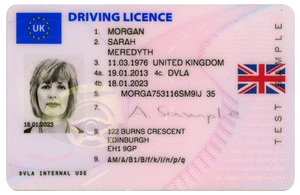
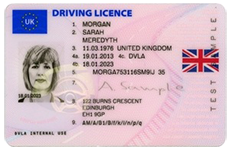
rp content prep for testing

diff --git a/app/views/repeat-prescriptions/rp-question-3.html b/app/views/repeat-prescriptions/rp-question-3.html
@@ -57,30 +57,6 @@ Repeat prescriptions
 
           <div>
             <ol class="nhsuk-list inline-list" role="list">
-              
-              <li class="nhsuk-c-panel results__item" data-index="1" role="listitem">
-                <hr>
-                <div>
-                  <h3 class="results__name"><span role="text"><span class="highlight">Shadwell</span> Medical Centre</span></h3>
-                  <p class="results__address" role="text">137 <span class="highlight">Shadwell</span> <span class="highlight">Lane</span>, Leeds, West Yorkshire, LS17 8AE</p>
-                  <p><a class="results__gp__selection" href="/repeat-prescriptions/rp-question-4?surgery=Shadwell Medical Centre">
-                    <span class="nhsuk-u-visually-hidden">Shadwell Medical Centre</span>
-                    <span aria-hidden="true">This</span> is my GP</a>
-                  </p>
-                </div>
-              </li>
-            
-              <li class="nhsuk-c-panel results__item" data-index="2" role="listitem">
-                <hr>
-                <div>
-                  <h3 class="results__name"><span role="text">Sandy <span class="highlight">Lane</span> Surgery</span></h3>
-                  <p class="results__address" role="text">Sandy <span class="highlight">Lane</span> Health Centre, Sandy <span class="highlight">Lane</span>, Rugeley, Staffordshire, WS15 2LB</p>
-                  <p><a class="results__gp__selection" href="/repeat-prescriptions/denied-despensing-gp">
-                    <span class="nhsuk-u-visually-hidden">Sandy Lane Surgery</span>
-                    <span aria-hidden="true">This</span> is my GP</a>
-                  </p>
-                </div>
-              </li>
             
               <li class="nhsuk-c-panel results__item" data-index="3" role="listitem">
                 <hr>
@@ -101,6 +77,18 @@ Repeat prescriptions
                   <p class="results__address" role="text">Matson <span class="highlight">Lane</span> Surgery, Taylor House 4 Matson <span class="highlight">Lane</span>, Matson, Gloucestershire, GL4 6DX</p>
                   <p><a class="results__gp__selection" href="">
                     <span class="nhsuk-u-visually-hidden">Matson Lane Surgery</span>
+                    <span aria-hidden="true">This</span> is my GP</a>
+                  </p>
+                </div>
+              </li>
+
+              <li class="nhsuk-c-panel results__item" data-index="1" role="listitem">
+                <hr>
+                <div>
+                  <h3 class="results__name"><span role="text"><span class="highlight">Shadwell</span> Medical Centre</span></h3>
+                  <p class="results__address" role="text">137 <span class="highlight">Shadwell</span> <span class="highlight">Lane</span>, Leeds, West Yorkshire, LS17 8AE</p>
+                  <p><a class="results__gp__selection" href="/repeat-prescriptions/rp-question-4?surgery=Shadwell Medical Centre">
+                    <span class="nhsuk-u-visually-hidden">Shadwell Medical Centre</span>
                     <span aria-hidden="true">This</span> is my GP</a>
                   </p>
                 </div>
@@ -142,6 +130,18 @@ Repeat prescriptions
                 </div>
               </li>
             
+              <li class="nhsuk-c-panel results__item" data-index="2" role="listitem">
+                <hr>
+                <div>
+                  <h3 class="results__name"><span role="text">Sandy <span class="highlight">Lane</span> Surgery</span></h3>
+                  <p class="results__address" role="text">Sandy <span class="highlight">Lane</span> Health Centre, Sandy <span class="highlight">Lane</span>, Rugeley, Staffordshire, WS15 2LB</p>
+                  <p><a class="results__gp__selection" href="/repeat-prescriptions/denied-despensing-gp">
+                    <span class="nhsuk-u-visually-hidden">Sandy Lane Surgery</span>
+                    <span aria-hidden="true">This</span> is my GP</a>
+                  </p>
+                </div>
+              </li>
+              
               <li class="nhsuk-c-panel results__item" data-index="8" role="listitem">
                 <hr>
                 <div>

diff --git a/app/views/repeat-prescriptions/start.html b/app/views/repeat-prescriptions/start.html
@@ -60,6 +60,11 @@
     <div class="nhsuk-grid-column-two-thirds">
 
       <h1 class="nhsuk-u-margin-bottom-4">Before you start</h1>
+      <p>To order repeat prescriptions online, you will need an NHS login.</p>
+      <p>NHS login makes it easier and quicker for you to securely access digital health and care services.</p>
+
+      <h2>What you will need</h2>
+      <p>In order to register for an NHS login you will need one of the following at hand:</p>
 
     </div>
 
@@ -67,22 +72,27 @@
 
   <div class="nhsuk-grid-row">
 
-    <div class="nhsuk-grid-column-two-thirds">
-      <p>To order repeat prescriptions online, you will need an NHS login.</p>
-      <p>In order to register and create an NHS login you will need one of the following at hand:</p>
+    <div class="nhsuk-grid-column-one-third">
       <ul class="nhsuk-list nhsuk-list--bullet">
         <li>a valid drivers licence</li>
         <li>a valid passport</li>
         <li>an EU identity card</li>
       </ul>
-      <div class="nhsuk-inset-text nhsuk-u-margin-bottom-6">
-        <span class="nhsuk-u-visually-hidden">Information: </span>
-        <p>You will need to take a photo of yourself holding your license and will then need to upload the photo.</p>
-      </div>
     </div>
 
-    <div class="nhsuk-grid-column-one-third nhsuk-u-margin-bottom-4">
-      <img src="/images/s300_Eng_Full_Front_Flag.png" alt="Driving Licence" width="250" height="163">
+    <div class="nhsuk-grid-column-one-third">
+      <img src="/images/s300_Eng_Full_Front_Flag.png" alt="Driving Licence" width="230" height="150">
+    </div>
+
+  </div>
+
+  <div class="nhsuk-grid-row">
+
+    <div class="nhsuk-grid-column-two-thirds">
+      <div class="nhsuk-inset-text nhsuk-u-margin-top-4 nhsuk-u-margin-bottom-6">
+        <span class="nhsuk-u-visually-hidden">Information: </span>
+        <p>You will need to take photos of the chosen ID and of yourself. You will then need to upload them.</p>
+      </div>
     </div>
 
   </div>
@@ -92,9 +102,9 @@
 
     <div class="nhsuk-grid-column-two-thirds">
 
-      <h2>Eligibility checker</h2>
-      <p>By answering a few questions now we will be able to let you know if you can order a repeat prescription online, before going through the process of registering for an NHS login.</p>
-      <p>If you do not want to check your eligibility, you can go ahead and <a href="https://account.demo.signin.nhs.uk/#/account/register">set up an NHS login</a>.</p>
+      <h2>Can I use this service?</h2>
+      <p>Not everyone is eligible to order repeat prescriptions online. So we will need to ask you a few questions to check if you are eligible, before taking you through the process of registering for an NHS login.</p>
+      <p>If you do not want to check your eligibility, you can go ahead and <a href="https://account.demo.signin.nhs.uk/#/account/register">register for an NHS login</a>.</p>
     
 
       <form action="/repeat-prescriptions/rp-question-1" method="post" style="float: left; padding-right: 20px;">
@@ -106,7 +116,7 @@
 
       <form action="https://account.demo.signin.nhs.uk/#/account/register" method="get">
         <button class="nhsuk-button nhsuk-button--secondary" type="submit">
-          Setup an NHS login
+          Register for an NHS login
         </button>
       </form>
 

diff --git a/app/views/repeat-prescriptions/rp-landing.html b/app/views/repeat-prescriptions/rp-landing.html
@@ -62,16 +62,17 @@
       <h1>Repeat prescriptions</h1>
 
       <p>If you're regularly prescribed the same medicine, your GP may offer a prescription that can be repeated several times.</p>
-      <p>Repeat prescriptions is one of many NHS services available to you on the NHS App.</p>
-      <h3><b>The NHS app can enable you to:</b></h3>
+      <!--p>Repeat prescriptions is one of many NHS services available to you on the NHS App.</p-->
+      <h3><b>This service can enable you to:</b></h3>
       <ul class="nhsuk-list nhsuk-list--bullet">
         <li>order a repeat prescription</li>
         <li>check the status of a prescription you have ordered</li>
+        <li>choose which high street pharmacy you would like to collect from</li>
       </ul>
 
       <div class="nhsuk-inset-text nhsuk-u-margin-bottom-3">
         <span class="nhsuk-u-visually-hidden">Information: </span>
-        <p>You will need an NHS login to use the NHS app.</p>
+        <p>You will need an NHS login to use this service.</p>
       </div>
 
     </div>
@@ -99,7 +100,7 @@
     <div class="nhsuk-grid-column-one-half">
       <div class="nhsuk-panel">
         <h3>I have an NHS login</h3>
-        <p>You can go straight to the NHS App, log in with your credentials and check your repeat prescription details.</p>
+        <p>You can log in now with your email and password to check your repeat prescription details.</p>
         <div class="nhsuk-action-link">
           <a class="nhsuk-action-link__link" href="https://nhs-cid.herokuapp.com/create-account/v19/login-nhs">
             <svg class="nhsuk-icon nhsuk-icon__arrow-right-circle" xmlns="http://www.w3.org/2000/svg" viewBox="0 0 24 24" aria-hidden="true">

diff --git a/app/views/repeat-prescriptions/denied-no-england.html b/app/views/repeat-prescriptions/denied-no-england.html
@@ -38,18 +38,25 @@ Repeat prescriptions
 
     <div class="nhsuk-grid-column-two-thirds">
 
-      <h1>You cannot use this service to order a repeat prescription online</h1>
+      <h1>You are unable to use this service</h1>
 
-      <form action="/repeat-prescriptions/" method="post">
+      <form action="https://www.nhs.uk" method="post">
 
         <div class="nhsuk-form-group">
 
-          <p>This service is only available to patients who are registered at a GP surgery in England. It's not available in Scotland, Wales or Northern Ireland.</p>
+          <p>This service is only available to people who are registered at a GP surgery in England. It's not available in Scotland, Wales or Northern Ireland.</p>
+          
+          <p>If your registered GP surgery is in:</p>
+          <ul class="nhsuk-list nhsuk-list--bullet">
+            <li>Scotland - you will need to contact your GP surgery</li>
+            <li>Wales - visit the <a href="">My Health Online website</a></li>
+            <li>Northern Ireland - visit the <a href="">nidirect website</a></li>
+          </ul>
 
         </div>
 
         {{ button({
-          "text": "Continue",
+          "text": "Continue to NHS.UK",
           "id": "btn_submit"
         }) }}
 

diff --git a/app/views/repeat-prescriptions/denied-despensing-gp.html b/app/views/repeat-prescriptions/denied-despensing-gp.html
@@ -38,19 +38,20 @@ Repeat prescriptions
 
     <div class="nhsuk-grid-column-two-thirds">
 
-      <h1>You cannot use this service to order a repeat prescription online</h1>
+      <h1>You are unable to use this service</h1>
 
-      <form action="/repeat-prescriptions/" method="post">
+      <form action="https://www.nhs.uk/service-search" method="post">
 
         <div class="nhsuk-form-group">
 
-          <p>Unfortunately our online repeat prescription service does not yet include your GP surgery.</p> 
-          <p>For more information and help, please contact your GP.</p>
+          <p>Your GP surgery uses its own in-house dispensary to provide prescriptions.</p> 
+          <p>These dispensing GP surgeries cannot offer this online service.</p>
+          <p>You will need to contact your GP surgery for more information about what to do next.</p>
 
         </div>
 
         {{ button({
-          "text": "Continue",
+          "text": "Contact your GP surgery",
           "id": "btn_submit"
         }) }}
 

diff --git a/app/views/repeat-prescriptions/denied-acute.html b/app/views/repeat-prescriptions/denied-acute.html
@@ -38,19 +38,18 @@ Repeat prescriptions
 
     <div class="nhsuk-grid-column-two-thirds">
 
-      <h1>You cannot use this service to order a repeat prescription online</h1>
+      <h1>You are unable to use this service</h1>
 
-      <form action="/repeat-prescriptions/" method="post">
+      <form action="https://www.nhs.uk/service-search" method="post">
 
         <div class="nhsuk-form-group">
 
-          <p>If you have been getting the same prescription on a regular basis but it does not appear on your repeat slip it could be a short-term acute repeat.</p> 
-          <p>These types of prescriptions are not available to order online. You will need to contact your GP.</p>
+          <p>You will need to contact your GP surgery if the medication you would like to order is not on your repeat slip or you do not have a repeat slip.</p> 
 
         </div>
 
         {{ button({
-          "text": "Continue",
+          "text": "Contact your GP surgery",
           "id": "btn_submit"
         }) }}
 

diff --git a/app/views/repeat-prescriptions/rp-question-2.html b/app/views/repeat-prescriptions/rp-question-2.html
@@ -46,16 +46,16 @@ Repeat prescriptions
 
           <fieldset class="nhsuk-fieldset" aria-describedby="example-hint">
             <legend class="nhsuk-fieldset__legend nhsuk-fieldset__legend--l">
-              We need to know where your GP is
+              Which GP surgery are you registered with?
             </legend>
 
             <span id="error-message" class="nhsuk-error-message" style="display: none;">
               <span class="nhsuk-u-visually-hidden">Error:</span> 
-              Please enter the GP surgery name
+              Please enter the GP surgery name or street name
             </span>
 
             <span class="nhsuk-hint" id="surgery-hint">
-              Enter the GP surgery name
+              Enter the GP surgery name or street name
             </span>
             <input class="nhsuk-input nhsuk-u-width-two-thirds" id="surgery" name="surgery" type="text" aria-describedby="surgery-hint">
           </fieldset>

diff --git a/app/views/repeat-prescriptions/confirmation.html b/app/views/repeat-prescriptions/confirmation.html
@@ -94,7 +94,7 @@ Repeat prescriptions
             
               <div class="nhsuk-summary-list__row">
                 <dt class="nhsuk-summary-list__key">
-                  Has your GP asked you to continue with any of the medications you want to order and are they listed on your repeat slip?
+                  Are any of the medications you want to order listed on your repeat slip?
                 </dt>
                 <dd class="nhsuk-summary-list__value">
                   {{data["onslip"]}}
@@ -110,7 +110,9 @@ Repeat prescriptions
 
           </fieldset>
 
-          <p>If the above details are correct, you can now continue to our NHS Login registration page.</p>
+          <p>From the answers that you have given we believe you may be able to use this service.</p>
+
+          <p>You can continue to the NHS Login registration page.</p>
 
         {{ button({
           "text": "Register with NHS Login",

diff --git a/app/views/repeat-prescriptions/denied-no-existing-repeat.html b/app/views/repeat-prescriptions/denied-no-existing-repeat.html
@@ -38,18 +38,19 @@ Repeat prescriptions
 
     <div class="nhsuk-grid-column-two-thirds">
 
-      <h1>You cannot use this service to order a repeat prescription online</h1>
+      <h1>You are unable to use this service</h1>
 
-      <form action="/repeat-prescriptions/" method="post">
+      <form action="https://www.nhs.uk/service-search" method="post">
 
         <div class="nhsuk-form-group">
 
-          <p>This service is only available to patients who currently have at least one repeat prescription from a GP.</p>
+          <p>This service is only available to people who have at least 1 active GP repeat prescription.</p>
+          <p>If you think you need 1 of your medicines as a repeat prescription, then you should contact your GP surgery. </p>
 
         </div>
 
         {{ button({
-          "text": "Continue",
+          "text": "Contact your GP surgery",
           "id": "btn_submit"
         }) }}
 

diff --git a/app/views/repeat-prescriptions/rp-question-5.html b/app/views/repeat-prescriptions/rp-question-5.html
@@ -54,7 +54,7 @@ Repeat prescriptions
 
           <fieldset class="nhsuk-fieldset" aria-describedby="frequency-hint">
             <legend class="nhsuk-fieldset__legend nhsuk-fieldset__legend--l">
-              Has your GP asked you to continue with any of the medications you want to order and are they listed on your repeat slip?
+              Are any of the medications you want to order listed on your repeat slip?
             </legend>
 
             <span id="error-message" class="nhsuk-error-message" style="display: none;">

diff --git a/app/routes.js b/app/routes.js
@@ -732,7 +732,7 @@ router.post('/rpq5', function(req, res) {
   let existingrepeat = req.body.existingrepeat;
 
   if (!existingrepeat) {
-    res.redirect('/repeat-prescriptions/rp-question-2?error=true');
+    res.redirect('/repeat-prescriptions/rp-question-4?error=true');
   } else if (existingrepeat == 'No') {
     res.redirect('/repeat-prescriptions/denied-no-existing-repeat');
   } else {
